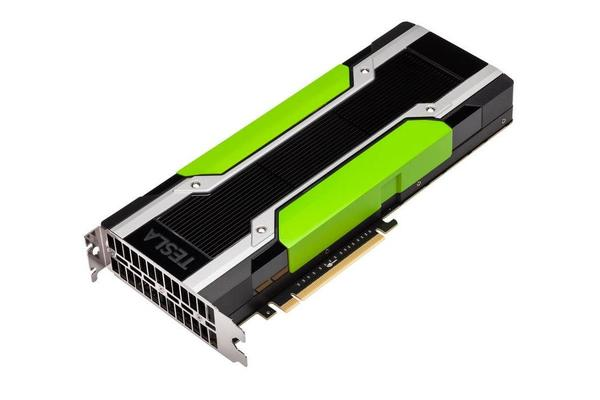
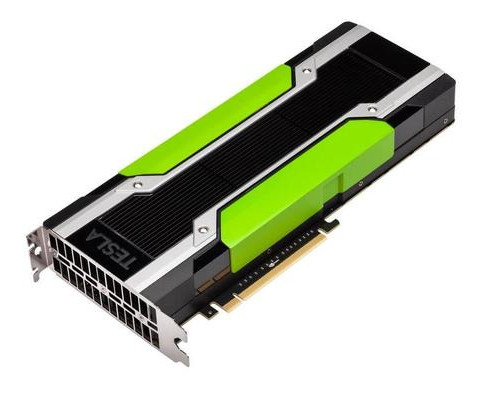
cropped xeon phi images, rearranged some slides

diff --git a/slides.md b/slides.md
@@ -80,7 +80,7 @@ Data obtained from [Top500.org](www.Top500.org)
 ## Vendor Options
 
 <!-- TODO: image origins -->
-[columns,class="row vertical-align"]
+[columns,class="row"]
 
 [column,class="col-xs-4"]
 
@@ -127,7 +127,7 @@ Not Covered Today!
 
 <center>
 _Nvidia Tesla K80_ 
-![](img/Nvidia-Tesla-K80_x200.jpg)
+![](img/Nvidia-Tesla-K80_x400.jpg)
 </center>
 
 [/column]
@@ -136,7 +136,7 @@ _Nvidia Tesla K80_
 
 <center>
 _AMD FirePro S9170_
-![](img/amd-firepro-s9150-server-graphics_x200.png)
+![](img/amd-firepro-s9150-server-graphics_x400.png)
 </center>
 
 [/column]
@@ -145,43 +145,50 @@ _AMD FirePro S9170_
 
 <center>
 Intel Xeon Phi 5110P
-![](img/xeon_phi_x200.jpg)
+![](img/xeon_phi_x400.jpg)
 </center>
 
 [/column]
 
 [/columns]
 
+&nbsp;
 
 [columns,class="row vertical-align"]
 
 [column,class="col-xs-4"]
 
+<center>
 * 2x GK210 chipsets
-* 2x 12 GB GDDR5 RAM
+* 2x 12 GB GDDR5
 * 2x 288 GB/s to RAM
 * 8.7 TFlops SP
 * 2.9 TFlops DP
+</center>
 
 [/column]
 
 [column,class="col-xs-4"]
 
+<center>
 * 1x Grenada XT
 * 32 GB GDDR5 RAM
 * 320 GB/s to RAM
 * 5.2 TFlops SP
 * 2.6 TFlops DP
+</center>
 
 [/column]
 
 [column,class="col-xs-4"]
 
+<center>
 * 62x x86 CPUs
 * 8 GB GDDR5 RAM
 * 320 GB/s to RAM
 * 2.1 TFlops SP
 * 1.1 TFlops DP
+</center>
 
 [/column]
 
@@ -280,7 +287,7 @@ width="1600" border="0" style="background-color: #FFFFFF;">
 </div>
 
 <center>
-CUDA core: 1 fp32 ops / clock <!-- (1/3 fp64 ops / clock) -->
+CUDA core: 192 fp32 ops / clock <!-- (1/3 fp64 ops / clock) -->
 </center>
 
 
